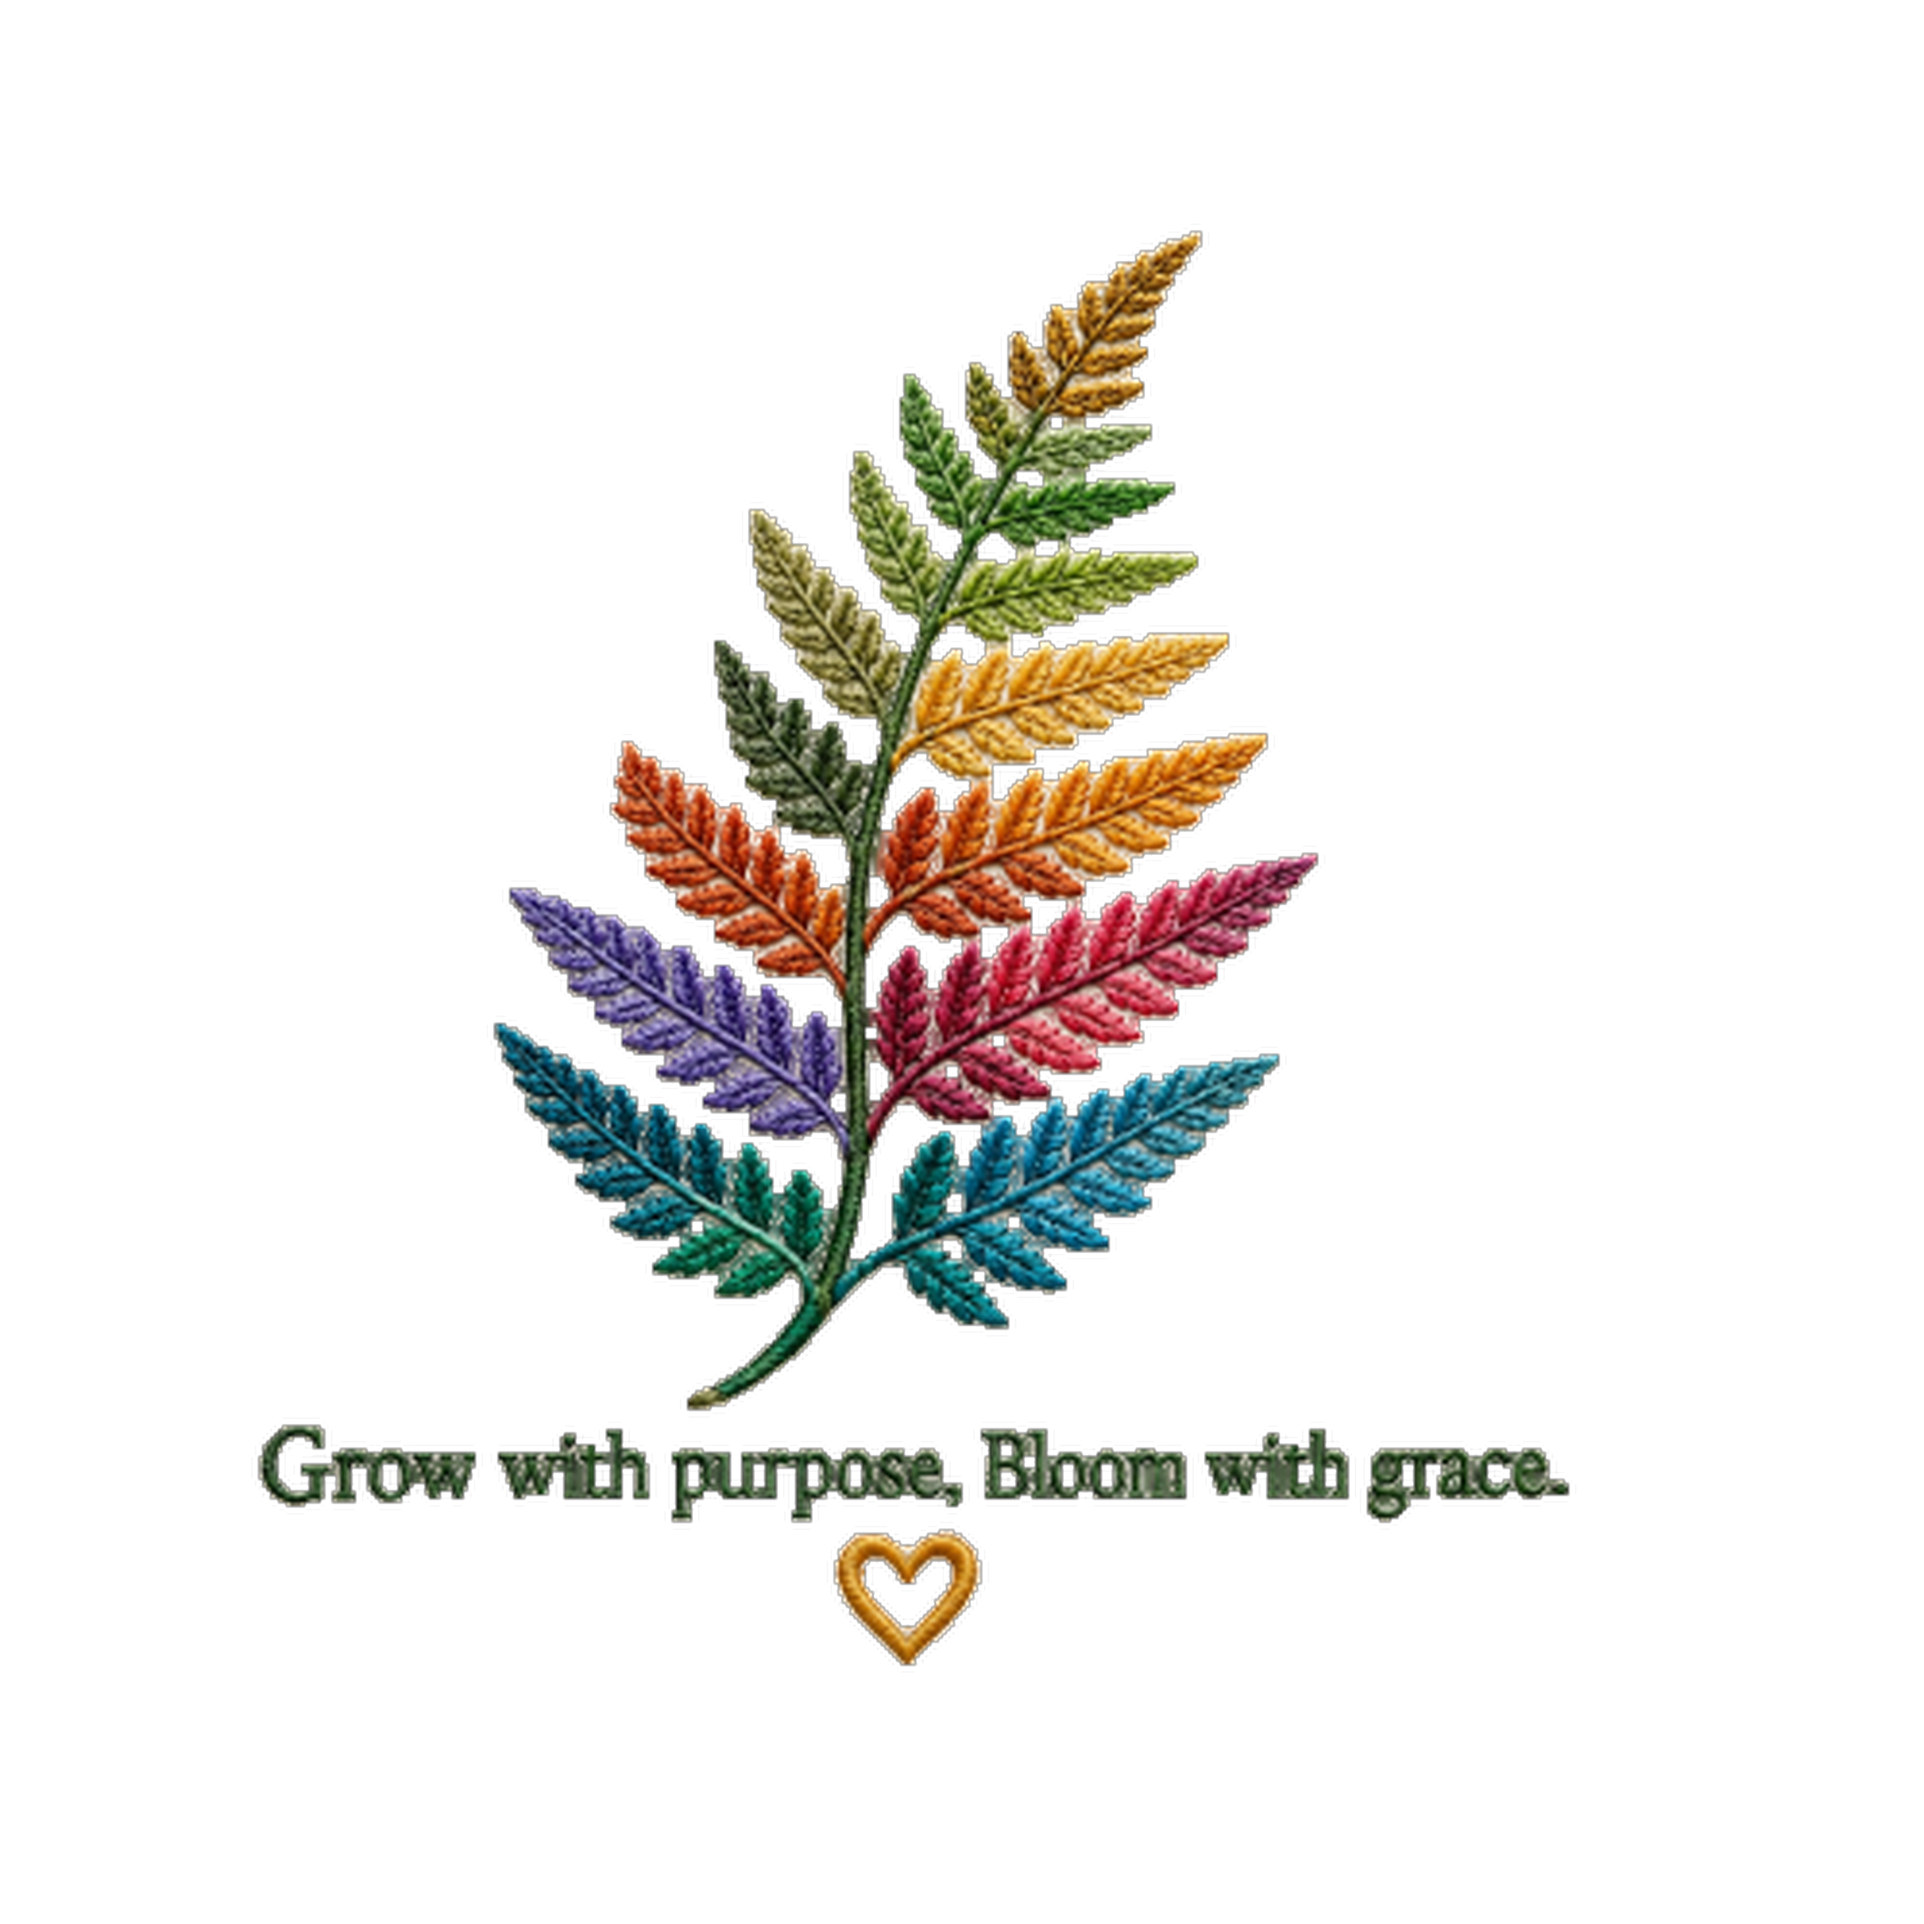
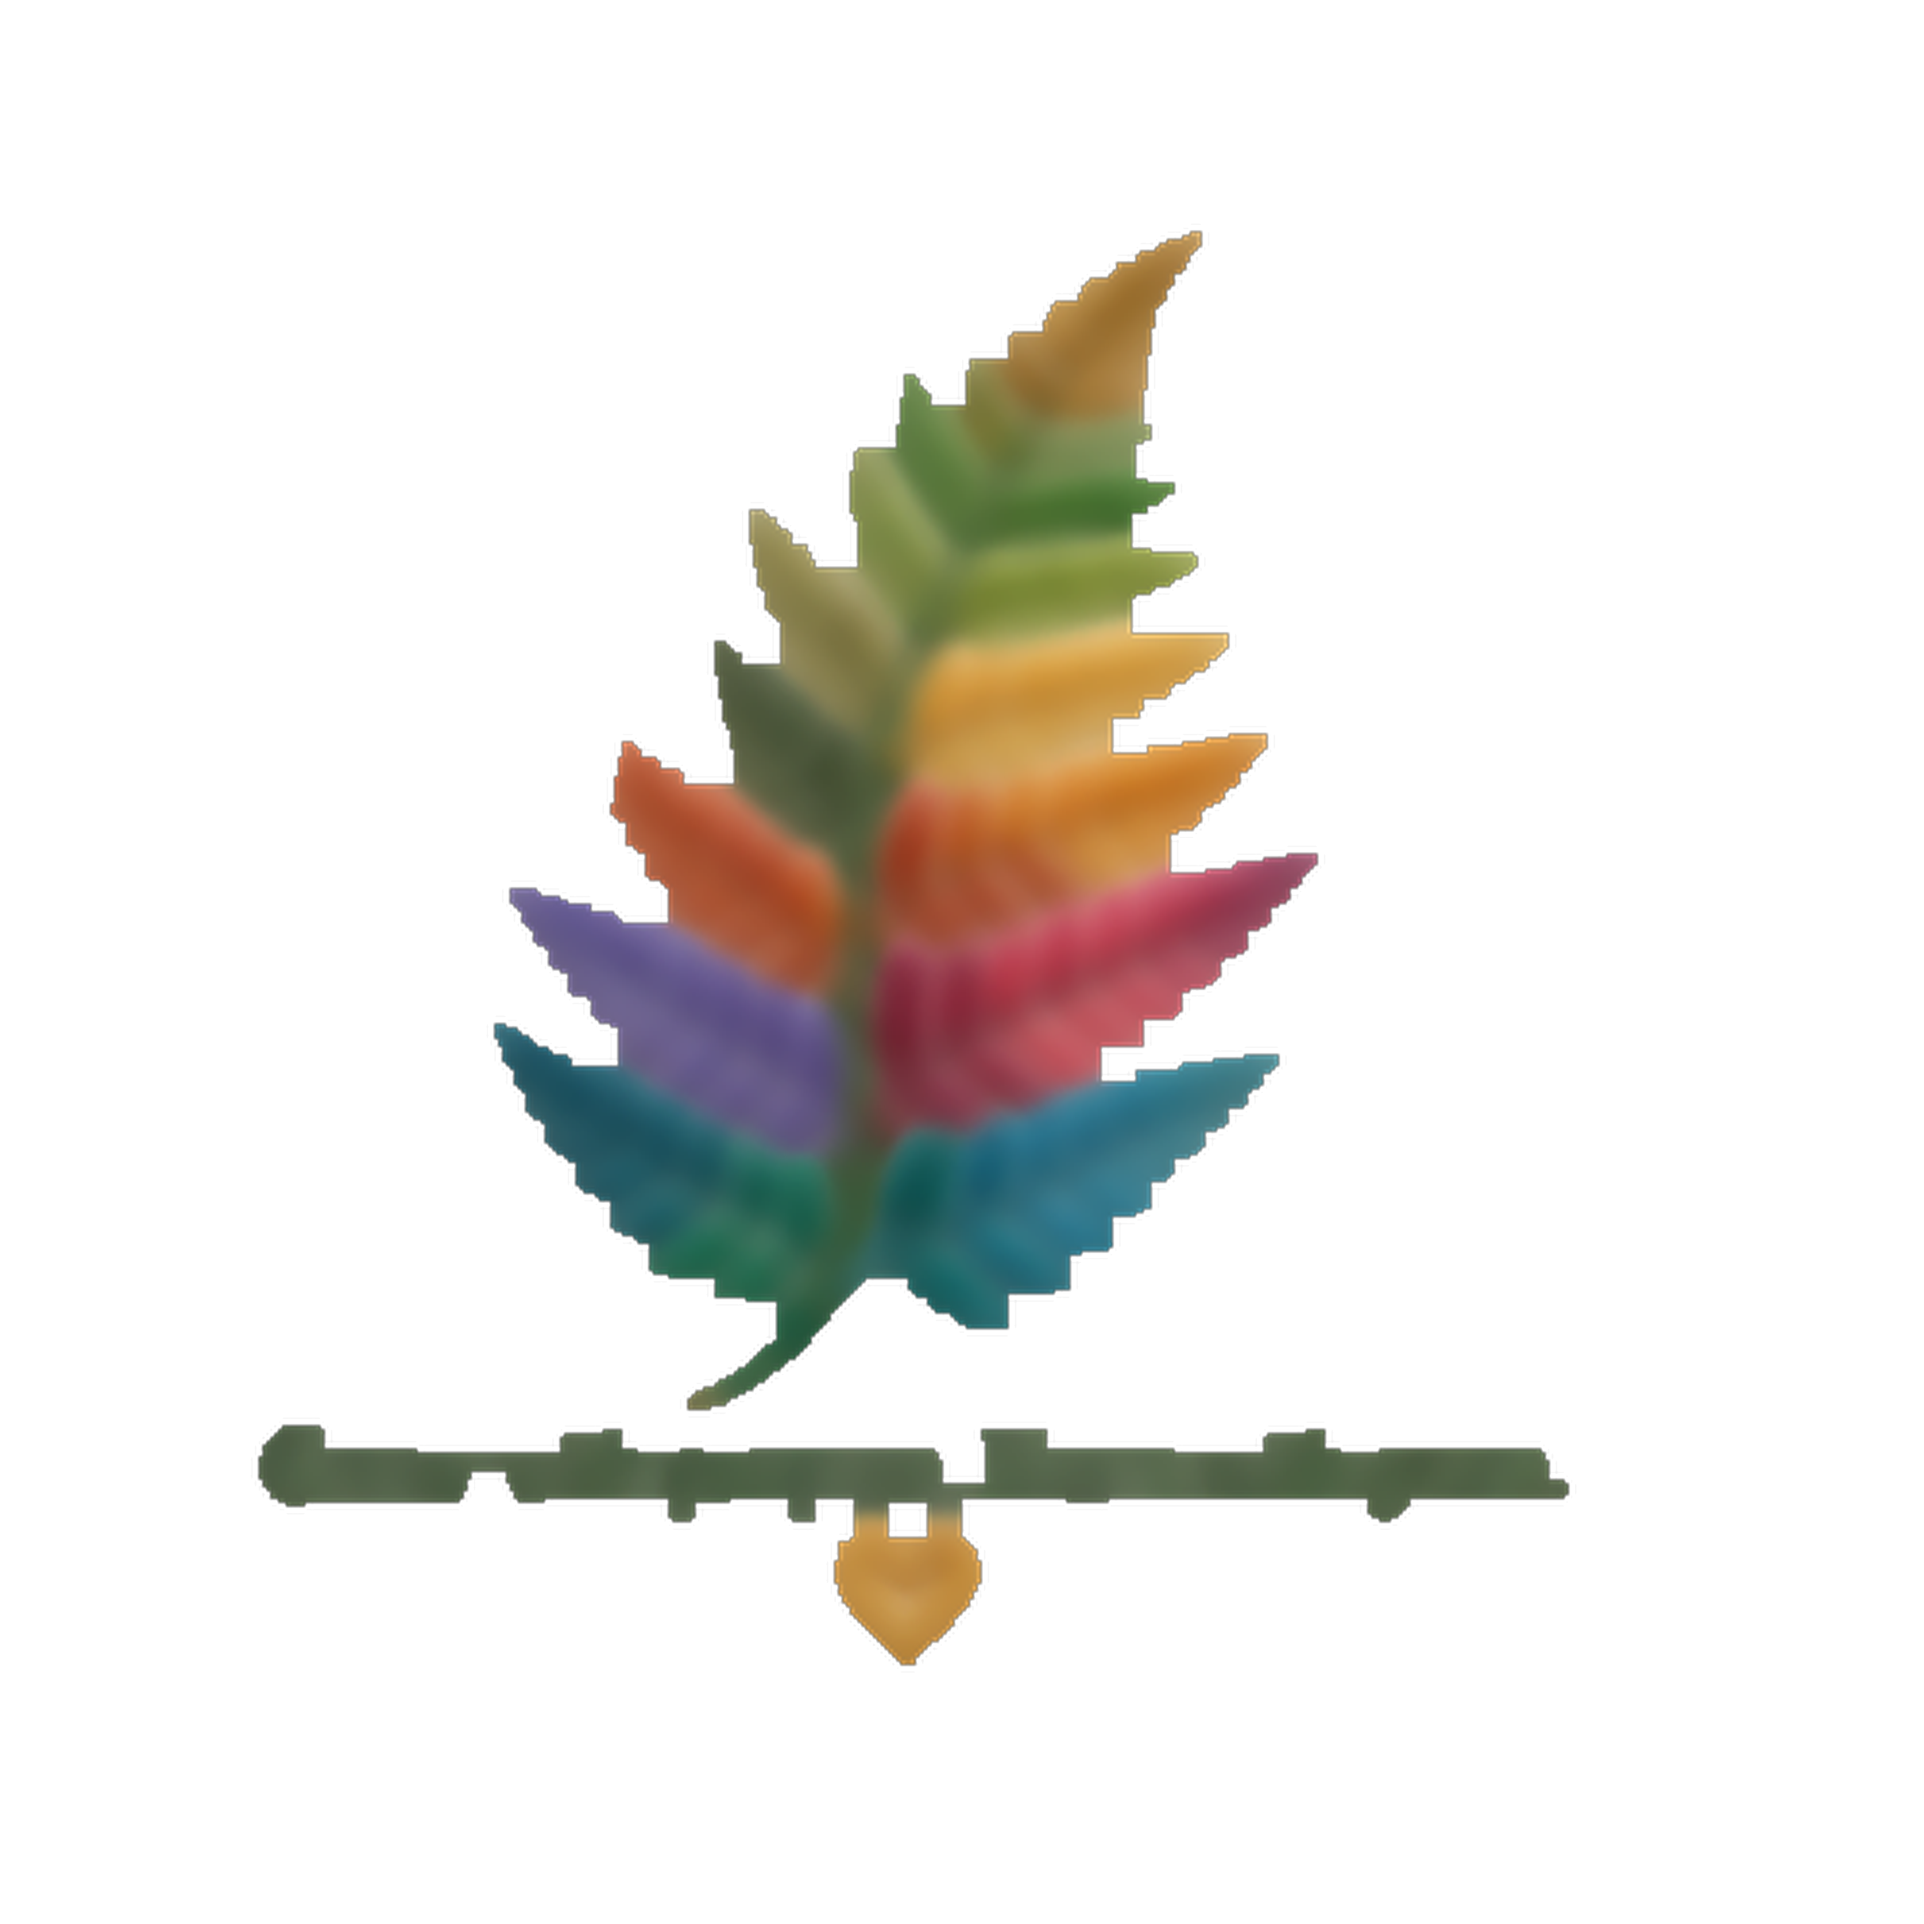
Melt the fern DTG stitches into flat ink.
The print kept the embroidery ridges from the source still. Smooth those ridges into solid color so the file reads as a DTG print, and leave the hoodie and tee embroidery files in place.

Changed region(s): [[0.1244, 0.1244, 0.8089, 0.8711]]

diff --git a/src/app/prints/page.tsx b/src/app/prints/page.tsx
@@ -250,10 +250,10 @@ export default function PrintsPage() {
           <div>
             <p className="font-medium">DTG · Grow with purpose</p>
             <p className="mt-1 text-xs leading-5 text-muted-foreground">
-              The same rainbow fern, line, and gold heart as flat ink for direct-to-garment. The
-              hoodie and tee embroidery files stay as they are. This one is 3600×3600 px at 300 DPI
-              with a transparent ground and no raised shadow. In Printify, use a DTG print area, not
-              the embroidery placement.
+              The same rainbow fern, line, and gold heart as smooth flat ink for direct-to-garment.
+              Stitch ridges are melted into solid color. The hoodie and tee embroidery files stay as
+              they are. This one is 3600×3600 px at 300 DPI with a transparent ground. In Printify,
+              use a DTG print area.
             </p>
           </div>
           <a className="text-sm underline" href="/catalog/print-fern-dtg.png" download="print-fern-dtg.png">

diff --git a/scripts/make-fern-dtg.py b/scripts/make-fern-dtg.py
@@ -1,9 +1,9 @@
 #!/usr/bin/env python3
-"""Build a flat DTG print of the rainbow fern, separate from embroidery and puff.
+"""Build a flat DTG print of the rainbow fern.
 
-The still is stitch art on a cream checker. This knocks that ground out, closes
-the thread gaps with neighboring ink, and leaves a transparent file with no
-bevel or contact shadow.
+The still is stitch art on a cream checker. This knocks that ground out, fills
+the thread gaps, and melts the stitch ridges into solid ink. The result is a
+transparent print with no bevel and no contact shadow.
 """
 
 from __future__ import annotations
@@ -31,40 +31,32 @@ def ground_of(rgb: np.ndarray) -> np.ndarray:
 
 def close_coverage(ground: np.ndarray) -> np.ndarray:
     alpha = Image.fromarray(np.where(ground, 0, 255).astype(np.uint8), "L")
-    # Fill stitch gaps, then drop specks that are not part of the fern.
-    alpha = alpha.filter(ImageFilter.MaxFilter(3)).filter(ImageFilter.MinFilter(3))
+    # Fill thread gaps, then drop specks that are not part of the fern.
+    alpha = alpha.filter(ImageFilter.MaxFilter(9)).filter(ImageFilter.MinFilter(9))
     alpha = alpha.filter(ImageFilter.MinFilter(3)).filter(ImageFilter.MaxFilter(3))
     return np.array(alpha)
 
 
-def bleed_ink(rgb: np.ndarray, ground: np.ndarray, coverage: np.ndarray) -> np.ndarray:
-    """Keep thread color, and paint closed gaps with nearby ink instead of cream."""
-    ink = ~ground
-    amount = ink.astype(np.float32)
-    premul = rgb.astype(np.float32) * amount[..., None]
-    color = Image.fromarray(np.clip(premul, 0, 255).astype(np.uint8), "RGB")
-    weight = Image.fromarray(np.clip(amount * 255, 0, 255).astype(np.uint8), "L")
-    color = np.array(color.filter(ImageFilter.GaussianBlur(1.1))).astype(np.float32)
-    weight = np.array(weight.filter(ImageFilter.GaussianBlur(1.1))).astype(np.float32) / 255.0
-    filled = np.where(weight[..., None] > 0.04, color / np.maximum(weight[..., None], 1e-3), 0)
-    out = np.where(ink[..., None], rgb, filled)
-    out[~((coverage > 0))] = 0
-    return np.clip(out, 0, 255).astype(np.uint8)
-
-
-def crisp_ink(color: Image.Image, alpha: np.ndarray) -> np.ndarray:
-    sharp = np.array(color.filter(ImageFilter.UnsharpMask(radius=1.2, percent=70, threshold=2)))
-    solid = alpha > 220
-    base = np.array(color)
-    mixed = np.where(solid[..., None], sharp, base)
-    mixed[alpha == 0] = 0
-    return mixed
+def solid_ink(rgb: np.ndarray, ground: np.ndarray, coverage: np.ndarray) -> np.ndarray:
+    """Melt stitch ridges into flat color and keep that color inside the fern."""
+    known = (~ground).astype(np.float32)
+    premul = rgb.astype(np.float32) * known[..., None]
+    blurred = Image.fromarray(np.clip(premul, 0, 255).astype(np.uint8), "RGB").filter(ImageFilter.GaussianBlur(4))
+    weight = Image.fromarray(np.clip(known * 255, 0, 255).astype(np.uint8), "L").filter(ImageFilter.GaussianBlur(4))
+    blurred_px = np.array(blurred).astype(np.float32)
+    weight_px = np.array(weight).astype(np.float32) / 255.0
+    filled = np.where(weight_px[..., None] > 0.08, blurred_px / np.maximum(weight_px[..., None], 1e-3), 0)
+    smooth = Image.fromarray(np.clip(filled, 0, 255).astype(np.uint8), "RGB")
+    smooth = smooth.filter(ImageFilter.MedianFilter(5)).filter(ImageFilter.GaussianBlur(0.8))
+    out = np.array(smooth)
+    out[coverage == 0] = 0
+    return out
 
 
 def flat(rgb: np.ndarray, side: int) -> np.ndarray:
     ground = ground_of(rgb)
     coverage = close_coverage(ground)
-    color = bleed_ink(rgb, ground, coverage)
+    color = solid_ink(rgb, ground, coverage)
     height, width = rgb.shape[:2]
     scale = side / max(height, width)
     fitted = (max(1, int(round(width * scale))), max(1, int(round(height * scale))))
@@ -72,7 +64,8 @@ def flat(rgb: np.ndarray, side: int) -> np.ndarray:
     alpha_im = Image.fromarray(coverage, "L").resize(fitted, Image.Resampling.LANCZOS)
     alpha = np.array(alpha_im)
     alpha[alpha < 6] = 0
-    rgb_out = crisp_ink(color_im, alpha)
+    rgb_out = np.array(color_im)
+    rgb_out[alpha == 0] = 0
     piece = np.dstack([rgb_out, alpha])
     canvas = np.zeros((side, side, 4), dtype=np.uint8)
     y0 = (side - fitted[1]) // 2
@@ -106,6 +99,15 @@ def check() -> None:
     # A flat print has no offset contact shadow, so a corner stays empty.
     if int(out[2, 2, 3]) != 0:
         raise SystemExit("dtg canvas picked up a shadow")
+    ridged = np.full((48, 48, 3), 236, dtype=np.uint8)
+    for x in range(18, 34):
+        ridged[16:32, x] = (20, 90, 40) if x % 2 == 0 else (90, 190, 100)
+    melted = flat(ridged, 96)
+    band = melted[40:56, 36:64, :3].astype(np.float32)
+    luma = 0.299 * band[:, :, 0] + 0.587 * band[:, :, 1] + 0.114 * band[:, :, 2]
+    jumps = np.abs(np.diff(luma, axis=1))
+    if float(jumps.mean()) > 12:
+        raise SystemExit("dtg ink still has stitch ridges")
     print("ok fern dtg")
 
 
